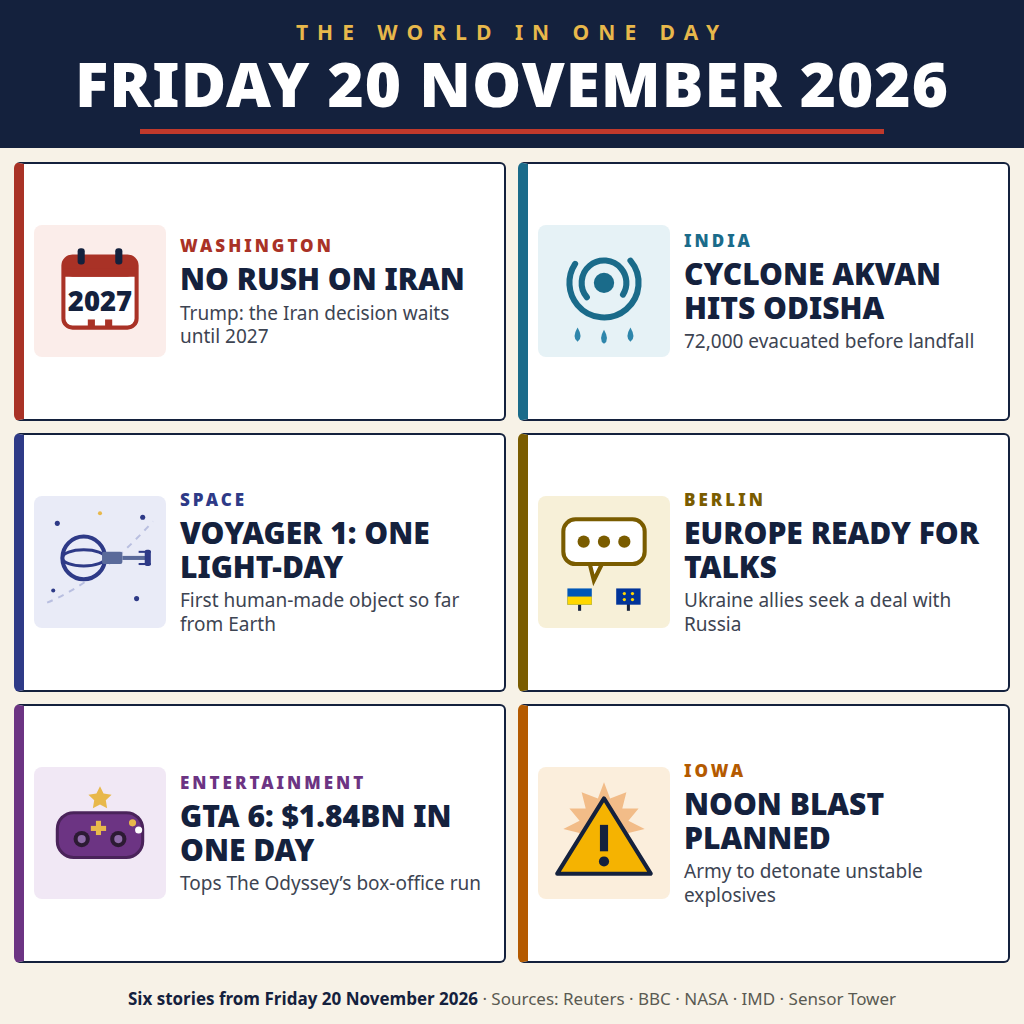
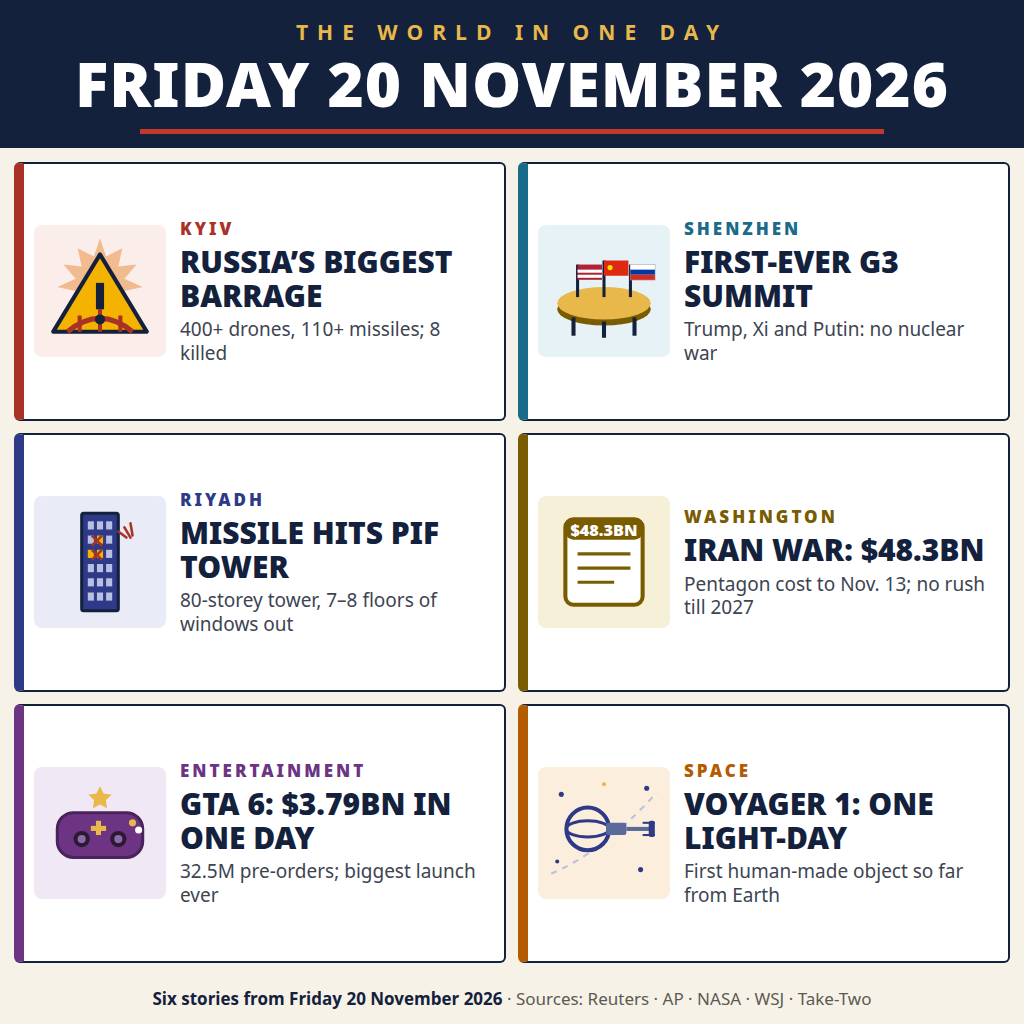
Second version: full day's news for 20 November 2026

diff --git a/news.html b/news.html
@@ -114,48 +114,136 @@
 
 <div class="grid">
 
-  <!-- 1. Trump / Iran -->
+  <!-- 1. Kyiv barrage -->
   <div class="panel p1">
     <div class="icon">
-      <svg viewBox="0 0 120 120" aria-label="calendar marked 2027">
-        <rect x="24" y="26" width="72" height="70" rx="9" fill="#FFFFFF" stroke="#A93226" stroke-width="4"/>
-        <rect x="24" y="26" width="72" height="20" rx="9" fill="#A93226"/>
-        <rect x="24" y="38" width="72" height="8" fill="#A93226"/>
-        <rect x="38" y="18" width="7" height="16" rx="3" fill="#14213D"/>
-        <rect x="75" y="18" width="7" height="16" rx="3" fill="#14213D"/>
-        <text x="60" y="80" font-size="27" font-weight="900" fill="#14213D" text-anchor="middle" font-family="Noto Sans, DejaVu Sans, sans-serif">2027</text>
-        <rect x="48" y="88" width="7" height="7" fill="#A93226"/>
-        <rect x="65" y="88" width="7" height="7" fill="#A93226"/>
+      <svg viewBox="0 0 120 120" aria-label="explosion burst over a bridge">
+        <polygon points="60,8 66,26 82,18 78,36 96,34 84,48 102,56 84,60 88,78 70,70 66,88 60,72 54,88 50,70 32,78 36,60 18,56 36,48 24,34 42,36 38,18 54,26" fill="#E67E22" opacity="0.45"/>
+        <polygon points="60,24 106,100 14,100" fill="#F5B301" stroke="#14213D" stroke-width="4" stroke-linejoin="round"/>
+        <path d="M28 100 Q 60 74 92 100" fill="none" stroke="#A93226" stroke-width="5"/>
+        <path d="M40 100 L 40 84 M 60 100 L 60 78 M 80 100 L 80 84" stroke="#A93226" stroke-width="4"/>
+        <rect x="56" y="52" width="8" height="26" fill="#14213D"/>
+        <circle cx="60" cy="88" r="5" fill="#14213D"/>
+      </svg>
+    </div>
+    <div class="text">
+      <div class="kicker">KYIV</div>
+      <div class="headline">RUSSIA&rsquo;S BIGGEST BARRAGE</div>
+      <div class="sub">400+ drones, 110+ missiles; 8 killed</div>
+    </div>
+  </div>
+
+  <!-- 2. Shenzhen trilateral -->
+  <div class="panel p2">
+    <div class="icon">
+      <svg viewBox="0 0 120 120" aria-label="three leaders around a round table">
+        <ellipse cx="60" cy="78" rx="46" ry="16" fill="#7A5C00"/>
+        <ellipse cx="60" cy="72" rx="46" ry="16" fill="#E8B84B"/>
+        <line x1="30" y1="86" x2="30" y2="104" stroke="#14213D" stroke-width="4"/>
+        <line x1="90" y1="86" x2="90" y2="104" stroke="#14213D" stroke-width="4"/>
+        <line x1="60" y1="90" x2="60" y2="106" stroke="#14213D" stroke-width="4"/>
+        <line x1="34" y1="66" x2="34" y2="34" stroke="#14213D" stroke-width="3"/>
+        <rect x="34" y="34" width="24" height="15" fill="#B22234"/>
+        <rect x="34" y="39" width="24" height="3" fill="#FFFFFF"/>
+        <rect x="34" y="44" width="24" height="3" fill="#FFFFFF"/>
+        <line x1="60" y1="66" x2="60" y2="30" stroke="#14213D" stroke-width="3"/>
+        <rect x="60" y="30" width="24" height="15" fill="#DE2910"/>
+        <circle cx="66" cy="37" r="2.5" fill="#FFDE00"/>
+        <line x1="86" y1="66" x2="86" y2="34" stroke="#14213D" stroke-width="3"/>
+        <rect x="86" y="34" width="24" height="15" fill="#FFFFFF" stroke="#999999" stroke-width="1"/>
+        <rect x="86" y="34" width="24" height="5" fill="#FFFFFF"/>
+        <rect x="86" y="39" width="24" height="5" fill="#0039A6"/>
+        <rect x="86" y="44" width="24" height="5" fill="#D52B1E"/>
+      </svg>
+    </div>
+    <div class="text">
+      <div class="kicker">SHENZHEN</div>
+      <div class="headline">FIRST-EVER G3 SUMMIT</div>
+      <div class="sub">Trump, Xi and Putin: no nuclear war</div>
+    </div>
+  </div>
+
+  <!-- 3. Riyadh PIF Tower -->
+  <div class="panel p3">
+    <div class="icon">
+      <svg viewBox="0 0 120 120" aria-label="tall skyscraper with broken windows">
+        <rect x="42" y="12" width="36" height="96" rx="2" fill="#2E3A87"/>
+        <rect x="42" y="12" width="36" height="96" rx="2" fill="none" stroke="#14213D" stroke-width="3"/>
+        <rect x="48" y="20" width="6" height="8" fill="#B9BFE0"/>
+        <rect x="57" y="20" width="6" height="8" fill="#B9BFE0"/>
+        <rect x="66" y="20" width="6" height="8" fill="#B9BFE0"/>
+        <rect x="48" y="34" width="6" height="8" fill="#B9BFE0"/>
+        <rect x="57" y="34" width="6" height="8" fill="#F5B301"/>
+        <rect x="66" y="34" width="6" height="8" fill="#B9BFE0"/>
+        <rect x="48" y="48" width="6" height="8" fill="#F5B301"/>
+        <rect x="57" y="48" width="6" height="8" fill="#F5B301"/>
+        <rect x="66" y="48" width="6" height="8" fill="#B9BFE0"/>
+        <rect x="48" y="62" width="6" height="8" fill="#B9BFE0"/>
+        <rect x="57" y="62" width="6" height="8" fill="#B9BFE0"/>
+        <rect x="66" y="62" width="6" height="8" fill="#B9BFE0"/>
+        <rect x="48" y="76" width="6" height="8" fill="#B9BFE0"/>
+        <rect x="57" y="76" width="6" height="8" fill="#B9BFE0"/>
+        <rect x="66" y="76" width="6" height="8" fill="#B9BFE0"/>
+        <rect x="48" y="90" width="6" height="8" fill="#B9BFE0"/>
+        <rect x="57" y="90" width="6" height="8" fill="#B9BFE0"/>
+        <rect x="66" y="90" width="6" height="8" fill="#B9BFE0"/>
+        <path d="M52 34 L 62 44 M 62 34 L 52 44 M 52 48 L 62 58 M 62 48 L 52 58" stroke="#A93226" stroke-width="2.5"/>
+        <path d="M84 26 l6 10 M 90 22 l2 12 M 78 30 l8 6" stroke="#A93226" stroke-width="2.5" stroke-linecap="round"/>
+      </svg>
+    </div>
+    <div class="text">
+      <div class="kicker">RIYADH</div>
+      <div class="headline">MISSILE HITS PIF TOWER</div>
+      <div class="sub">80-storey tower, 7&ndash;8 floors of windows out</div>
+    </div>
+  </div>
+
+  <!-- 4. Iran war cost -->
+  <div class="panel p4">
+    <div class="icon">
+      <svg viewBox="0 0 120 120" aria-label="ledger with dollar sign">
+        <rect x="22" y="18" width="76" height="84" rx="8" fill="#FFFFFF" stroke="#7A5C00" stroke-width="4"/>
+        <rect x="22" y="18" width="76" height="20" rx="8" fill="#7A5C00"/>
+        <line x1="34" y1="52" x2="86" y2="52" stroke="#7A5C00" stroke-width="3"/>
+        <line x1="34" y1="66" x2="86" y2="66" stroke="#7A5C00" stroke-width="3"/>
+        <line x1="34" y1="80" x2="70" y2="80" stroke="#7A5C00" stroke-width="3"/>
+        <circle cx="60" cy="28" r="0" fill="none"/>
+        <text x="60" y="34" font-size="16" font-weight="900" fill="#FFFFFF" text-anchor="middle" font-family="Noto Sans, DejaVu Sans, sans-serif">$48.3BN</text>
       </svg>
     </div>
     <div class="text">
       <div class="kicker">WASHINGTON</div>
-      <div class="headline">NO RUSH ON IRAN</div>
-      <div class="sub">Trump: the Iran decision waits until 2027</div>
+      <div class="headline">IRAN WAR: $48.3BN</div>
+      <div class="sub">Pentagon cost to Nov. 13; no rush till 2027</div>
     </div>
   </div>
 
-  <!-- 2. Cyclone Akvan -->
-  <div class="panel p2">
+  <!-- 5. GTA 6 -->
+  <div class="panel p5">
     <div class="icon">
-      <svg viewBox="0 0 120 120" aria-label="cyclone swirl and rain">
-        <circle cx="60" cy="52" r="34" fill="none" stroke="#1A6B8A" stroke-width="6" stroke-dasharray="150 64" stroke-linecap="round" transform="rotate(-40 60 52)"/>
-        <circle cx="60" cy="52" r="22" fill="none" stroke="#1A6B8A" stroke-width="6" stroke-dasharray="96 43" stroke-linecap="round" transform="rotate(140 60 52)"/>
-        <circle cx="60" cy="52" r="10" fill="#1A6B8A"/>
-        <path d="M34 96 q6 10 0 14 q-6 -4 0 -14" fill="#2E86AB"/>
-        <path d="M60 98 q6 10 0 14 q-6 -4 0 -14" fill="#2E86AB"/>
-        <path d="M86 96 q6 10 0 14 q-6 -4 0 -14" fill="#2E86AB"/>
+      <svg viewBox="0 0 120 120" aria-label="game controller">
+        <rect x="18" y="40" width="84" height="44" rx="16" fill="#6C3483"/>
+        <rect x="18" y="40" width="84" height="44" rx="16" fill="none" stroke="#4A235A" stroke-width="3"/>
+        <circle cx="42" cy="66" r="8" fill="#2C1A33"/>
+        <circle cx="42" cy="66" r="4" fill="#8E6BA8"/>
+        <circle cx="78" cy="66" r="8" fill="#2C1A33"/>
+        <circle cx="78" cy="66" r="4" fill="#8E6BA8"/>
+        <rect x="56" y="48" width="5" height="14" fill="#E8B84B"/>
+        <rect x="51" y="53" width="15" height="5" fill="#E8B84B"/>
+        <circle cx="92" cy="50" r="3.5" fill="#E8B84B"/>
+        <circle cx="98" cy="57" r="3.5" fill="#FFFFFF"/>
+        <path d="M60 14 l3.5 7.2 7.9 1.1 -5.7 5.5 1.3 7.8 -7 -3.7 -7 3.7 1.3 -7.8 -5.7 -5.5 7.9 -1.1 z" fill="#E8B84B"/>
       </svg>
     </div>
     <div class="text">
-      <div class="kicker">INDIA</div>
-      <div class="headline">CYCLONE AKVAN HITS ODISHA</div>
-      <div class="sub">72,000 evacuated before landfall</div>
+      <div class="kicker">ENTERTAINMENT</div>
+      <div class="headline">GTA 6: $3.79BN IN ONE DAY</div>
+      <div class="sub">32.5M pre-orders; biggest launch ever</div>
     </div>
   </div>
 
-  <!-- 3. Voyager 1 -->
-  <div class="panel p3">
+  <!-- 6. Voyager 1 -->
+  <div class="panel p6">
     <div class="icon">
       <svg viewBox="0 0 120 120" aria-label="spacecraft and stars">
         <circle cx="18" cy="22" r="2.5" fill="#2E3A87"/>
@@ -180,78 +268,10 @@
     </div>
   </div>
 
-  <!-- 4. Europe / Ukraine talks -->
-  <div class="panel p4">
-    <div class="icon">
-      <svg viewBox="0 0 120 120" aria-label="talks: speech bubble and two flags">
-        <rect x="20" y="18" width="80" height="44" rx="12" fill="#FFFFFF" stroke="#7A5C00" stroke-width="4"/>
-        <polygon points="46,62 58,62 50,78" fill="#FFFFFF" stroke="#7A5C00" stroke-width="4"/>
-        <circle cx="40" cy="40" r="6" fill="#7A5C00"/>
-        <circle cx="60" cy="40" r="6" fill="#7A5C00"/>
-        <circle cx="80" cy="40" r="6" fill="#7A5C00"/>
-        <line x1="36" y1="92" x2="36" y2="108" stroke="#14213D" stroke-width="3"/>
-        <rect x="24" y="86" width="24" height="16" fill="#0057B7"/>
-        <rect x="24" y="94" width="24" height="8" fill="#FFD700"/>
-        <line x1="84" y1="92" x2="84" y2="108" stroke="#14213D" stroke-width="3"/>
-        <rect x="72" y="86" width="24" height="16" fill="#003399"/>
-        <circle cx="80" cy="91" r="1.6" fill="#FFD700"/>
-        <circle cx="88" cy="91" r="1.6" fill="#FFD700"/>
-        <circle cx="80" cy="97" r="1.6" fill="#FFD700"/>
-        <circle cx="88" cy="97" r="1.6" fill="#FFD700"/>
-      </svg>
-    </div>
-    <div class="text">
-      <div class="kicker">BERLIN</div>
-      <div class="headline">EUROPE READY FOR TALKS</div>
-      <div class="sub">Ukraine allies seek a deal with Russia</div>
-    </div>
-  </div>
-
-  <!-- 5. GTA 6 -->
-  <div class="panel p5">
-    <div class="icon">
-      <svg viewBox="0 0 120 120" aria-label="game controller">
-        <rect x="18" y="40" width="84" height="44" rx="16" fill="#6C3483"/>
-        <rect x="18" y="40" width="84" height="44" rx="16" fill="none" stroke="#4A235A" stroke-width="3"/>
-        <circle cx="42" cy="66" r="8" fill="#2C1A33"/>
-        <circle cx="42" cy="66" r="4" fill="#8E6BA8"/>
-        <circle cx="78" cy="66" r="8" fill="#2C1A33"/>
-        <circle cx="78" cy="66" r="4" fill="#8E6BA8"/>
-        <rect x="56" y="48" width="5" height="14" fill="#E8B84B"/>
-        <rect x="51" y="53" width="15" height="5" fill="#E8B84B"/>
-        <circle cx="92" cy="50" r="3.5" fill="#E8B84B"/>
-        <circle cx="98" cy="57" r="3.5" fill="#FFFFFF"/>
-        <path d="M60 14 l3.5 7.2 7.9 1.1 -5.7 5.5 1.3 7.8 -7 -3.7 -7 3.7 1.3 -7.8 -5.7 -5.5 7.9 -1.1 z" fill="#E8B84B"/>
-      </svg>
-    </div>
-    <div class="text">
-      <div class="kicker">ENTERTAINMENT</div>
-      <div class="headline">GTA 6: $1.84BN IN ONE DAY</div>
-      <div class="sub">Tops The Odyssey&rsquo;s box-office run</div>
-    </div>
-  </div>
-
-  <!-- 6. Iowa detonation -->
-  <div class="panel p6">
-    <div class="icon">
-      <svg viewBox="0 0 120 120" aria-label="warning triangle and blast">
-        <polygon points="60,10 66,26 82,20 78,36 94,36 84,48 100,56 84,60 88,76 72,70 68,86 60,72 52,86 48,70 32,76 36,60 20,56 36,48 26,36 42,36 38,20 54,26" fill="#E67E22" opacity="0.45"/>
-        <polygon points="60,26 106,100 14,100" fill="#F5B301" stroke="#14213D" stroke-width="4" stroke-linejoin="round"/>
-        <rect x="56" y="52" width="8" height="26" fill="#14213D"/>
-        <circle cx="60" cy="88" r="5" fill="#14213D"/>
-      </svg>
-    </div>
-    <div class="text">
-      <div class="kicker">IOWA</div>
-      <div class="headline">NOON BLAST PLANNED</div>
-      <div class="sub">Army to detonate unstable explosives</div>
-    </div>
-  </div>
-
 </div>
 
 <div class="footer">
-  <b>Six stories from Friday 20 November 2026</b> &middot; Sources: Reuters &middot; BBC &middot; NASA &middot; IMD &middot; Sensor Tower
+  <b>Six stories from Friday 20 November 2026</b> &middot; Sources: Reuters &middot; AP &middot; NASA &middot; WSJ &middot; Take-Two
 </div>
 
 </body>

diff --git a/README.md b/README.md
@@ -6,12 +6,14 @@
 
 One image that sums up the world news of **Friday 20 November 2026**, drawn as a newspaper front page: a masthead naming the day, and six stories, each clear from its own picture and a short label.
 
-1. **Washington — No rush on Iran.** Trump says the decision on Iran waits until 2027. (Reuters)
-2. **India — Cyclone Akvan hits Odisha.** 72,000 people evacuated before landfall near Gopalpur. (IMD / ANI)
-3. **Space — Voyager 1: one light-day.** The first human-made object to reach one light-day from Earth, 16.1 billion miles out. (NASA)
-4. **Berlin — Europe ready for talks.** Ukraine's allies say they have a united position for negotiations with Russia. (BBC)
-5. **Entertainment — GTA 6: $1.84bn in one day.** Sensor Tower's estimate tops The Odyssey's $1.805bn box-office run. (Sensor Tower via Reuters / Forbes)
-6. **Iowa — Noon blast planned.** The US Army is set to detonate 68 barrels of unstable lead azide at noon in Middletown. (Des Moines Register)
+This is the second version, rebuilt from the full day's news and resubmitted on 21 November 2026 (the first version, submitted on the morning of 20 November, used only the morning's news).
+
+1. **Kyiv — Russia's biggest barrage.** More than 400 drones and 110 missiles overnight, at least 8 killed; three Dnipro bridges and railway infrastructure hit, and Russian missiles crossed into Poland. (Reuters / AP)
+2. **Shenzhen — First-ever G3 summit.** Trump, Xi and Putin meet at APEC; joint statement that a nuclear war cannot be won and must never be fought. (WSJ / CNN)
+3. **Riyadh — Missile hits PIF Tower.** A suspected Houthi missile strikes the 80-storey PIF Tower, blowing out windows across 7–8 floors, no injuries; the second financial-district landmark hit in under two weeks. (Reuters)
+4. **Washington — Iran war: $48.3bn.** Pentagon tells Congress the war has cost $48.3 billion as of 13 November, excluding base damage; Trump says no rush on a new strike, decision waits until 2027. (AP / Reuters)
+5. **Entertainment — GTA 6: $3.79bn in one day.** Take-Two/Rockstar's official day-one figure, with 32.5 million pre-release copies — the biggest entertainment launch in history. (Take-Two / Business Wire)
+6. **Space — Voyager 1: one light-day.** The first human-made object to reach one light-day from Earth, 16.1 billion miles out. (NASA)
 
 Every visual is drawn by hand in code — shapes and typography only, no photographs or borrowed artwork. The page was built as `news.html` (inline SVG pictograms) and rendered to `entry.png` (1024×1024) with headless Chrome. `main.ts` copies that PNG to the output directory; the same bytes are produced on every run.
 
